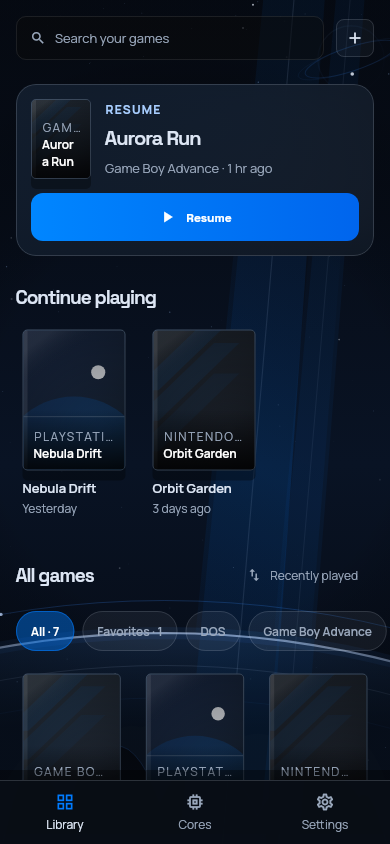
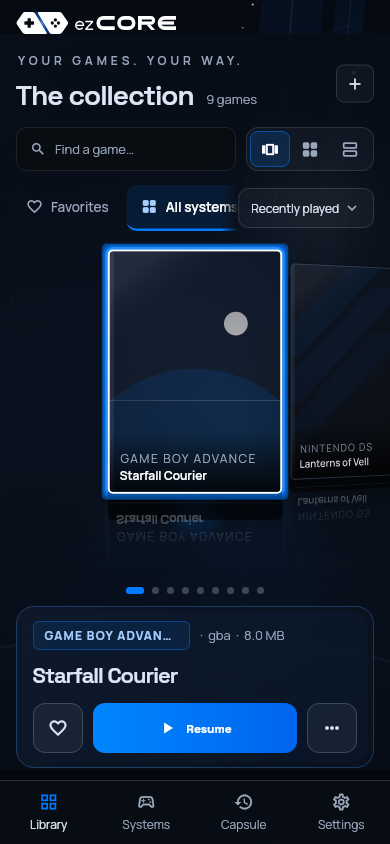
docs(readme): the Orbit UI — shelf GIF, new screenshots, current evidence
- Tour rewritten for the OS: four spaces (Library, Systems, Capsule,
  Settings), the 3D shelf with an animated GIF of browsing, 3D / Grid / List,
  Systems as cards, the controller's P1 badge.
- New screenshots rendered from the real screens with invented titles and the
  app's generated covers: library (3D), library grid, systems, phone.
- What you can play: Dreamcast now boots and saves on the GPU (#111's MATRIX
  evidence); N64 on GLideN64 as well as software; PSP and GameCube honestly
  marked as still being fixed.
- Points to docs/BRAND.md.

diff --git a/README.md b/README.md
@@ -34,20 +34,49 @@
 </p>
 
 <p align="center">
-  <img alt="ezCORE library with Resume, Continue playing and every game" src="docs/images/library.png" width="900">
+  <img alt="The ezCORE library: a 3D shelf of games with reflections, the front game's dock with Resume" src="docs/images/library.png" width="900">
 </p>
 
 ---
 
 ## What it feels like
 
-**Resume, in one tap.** ezCORE opens on the game you played last — whatever
-system it is — and puts you back exactly where you stopped. No menus, no
+ezCORE is built like an operating system for your games: one top bar, four
+spaces — **Library**, **Systems**, **Capsule** and **Settings** — and keys
+<kbd>1</kbd>–<kbd>4</kbd> to move between them.
+
+**Your collection on a shelf.** Games stand on a glossy 3D shelf, the one in
+front lit up over its own art. Swipe, scroll, use the arrow keys or a
+controller's d-pad; the dock underneath tells you what it is and offers one
+thing to do — **Resume** if you've played it, **Let's play** if not.
+
+<p align="center">
+  <img alt="Browsing the shelf with the arrow keys" src="docs/images/shelf.gif" width="800">
+</p>
+
+**Resume, in one tap.** The shelf opens on the game you played last — whatever
+system it is — and Resume puts you back exactly where you stopped. No menus, no
 choosing an emulator, no hunting for a save.
 
-**One library for everything.** Add a file or a whole folder; ezCORE works out
-what each game is and which core plays it. Search, filter by system, favourite,
-and keep going from *Continue playing*.
+**3D, Grid or List.** Prefer a wall of covers or a tidy list? Switch views top
+right; ezCORE remembers. Grid and List keep Resume and *Continue playing* on
+top. Add a file or a whole folder and ezCORE works out what each game is and
+which core plays it; filter by system, favourite, sort, search with <kbd>/</kbd>.
+
+<p align="center">
+  <img alt="The library as a grid, with Resume and Continue playing" src="docs/images/library-grid.png" width="900">
+</p>
+
+**Systems: cores you can see.** Every emulator core is shown by the systems it
+plays, with honest status (ready, needs BIOS, update available) and whether the
+project has verified it. Install, update or remove one like an app.
+
+<p align="center">
+  <img alt="Systems: installed cores as cards with their hardware, and the details of the selected one" src="docs/images/cores.png" width="900">
+</p>
+
+**Capsule: every save, for every game.** Save states are kept per game, named
+in plain words, and one tap from the rail.
 
 **A real page for every game.** Its own art, Resume or Play, every save as a
 card you can load or delete, the core it uses, cheats, and the file.
@@ -63,13 +92,18 @@ DS shows its two screens as a clamshell with a hinge. Drag, resize, fade or hide
 any button and save it per system; **Reset** brings the default back.
 
 <p align="center">
-  <img alt="The Nintendo DS clamshell layout (no game running)" src="docs/images/controls-ds.png" width="260">
+  <img alt="The library on a phone" src="docs/images/library-phone.png" width="260">
   &nbsp;&nbsp;
+  <img alt="The Nintendo DS clamshell layout (no game running)" src="docs/images/controls-ds.png" width="260">
+</p>
+
+<p align="center">
   <img alt="The NES layout in landscape, showing a frame from the project's own CC0 test ROM" src="docs/images/player-landscape.png" width="560">
 </p>
 
-**Bring your controller.** Remap any button by pressing it. Hold **Select +
-Start** for the pause menu. The d-pad drives every menu, A chooses, B goes back.
+**Bring your controller.** It drives every screen; remap any button by pressing
+it; hold **Select + Start** for the pause menu. A **P1** badge in the top bar
+tells you it's connected.
 
 **A pause menu that respects your progress.** Resume, save and load, cheats,
 edit controls, fast-forward, screenshot, reset and quit. Back never drops you
@@ -78,13 +112,6 @@ out of a game by accident.
 **Crash protection** *(experimental, desktop)*. Turn it on and each core runs in
 its own helper process: if a core crashes or freezes, only that game ends, with
 a plain message. The app, your library and your saves are untouched.
-
-<table>
-  <tr>
-    <td><img alt="Cores, listed by the systems they play" src="docs/images/cores.png"></td>
-    <td width="30%"><img alt="The library on a phone" src="docs/images/library-phone.png"></td>
-  </tr>
-</table>
 
 ---
 
@@ -103,10 +130,11 @@ platform named. Evidence for every cell is in [`docs/MATRIX.md`](docs/MATRIX.md)
 | NES / Famicom | NesByte (Mesen) | ✅ Boots and saves (Linux) |
 | PlayStation | Geometry1 (SwanStation) | ✅ Boots and saves (Linux) |
 | Nintendo DS | DualScreen (melonDS) | ✅ Boots and saves (Linux) |
-| Nintendo 64 | RCP64 (Mupen64Plus-Next) | ✅ Boots and saves on its software renderer (Linux) |
+| Nintendo 64 | RCP64 (Mupen64Plus-Next) | ✅ Boots and saves on the GPU (GLideN64) and in software (Linux) |
+| Dreamcast | DreamArc (Flycast) | ✅ Boots and saves on the GPU (OpenGL, Linux) |
 | PC Engine / TurboGrafx-16 · Atari 2600 · Saturn | CardCon · Joystick · TwinSH | Starts; not yet verified with content |
 | DOS · SCUMM adventures | RealMode (DOSBox Pure) · PointClick (ScummVM) | Starts; content verification in progress |
-| PSP · Dreamcast · GameCube / Wii | PortComp · DreamArc · PowerCube | Needs GPU support (in progress) |
+| PSP · GameCube / Wii | PortComp · PowerCube | GPU context works; booting content is still being fixed |
 | Super Nintendo · Genesis · Arcade | SuperFX · BlastProc · CoinBox | Work, but their licences forbid redistribution: build them yourself |
 | PS2 · 3DS · Switch | — | Held: not built or shipped under project policy |
 
@@ -194,10 +222,10 @@ Details: [`docs/ARCHITECTURE.md`](docs/ARCHITECTURE.md).
 
 ## Where it's going
 
-Next up, in order: analog sticks, keyboard and mouse for every core (unlocking
-DOS and analog-heavy 3D games); GPU rendering (PSP, Dreamcast, GameCube and
-faster N64); crash protection on every desktop and Android; single-file core
-packages anyone can share; and verified builds for every platform. The full plan
+Next up: PSP and GameCube on the GPU, Vulkan for the cores that prefer it,
+crash protection on every desktop and Android, single-file core packages anyone
+can share, and verified builds for every platform. Sticks, keyboard, mouse and
+touch already reach every core. The full plan
 is [`ROADMAP.md`](ROADMAP.md); what changed lately is in
 [`CHANGELOG.md`](CHANGELOG.md).
 
@@ -258,7 +286,8 @@ code, testing, bug reports, art and docs count just as much. Security:
 
 ezCORE stands on the work of the [libretro](https://www.libretro.com/) community
 and the open-source emulator ecosystem. Screenshots show invented titles with
-generated cover art; the in-game frame is the project's own CC0 test ROM.
+generated cover art; the in-game frame is the project's own CC0 test ROM. The
+brand files and how they are made: [`docs/BRAND.md`](docs/BRAND.md).
 
 <p align="center">
   <sub>One home for every game you own.</sub>
